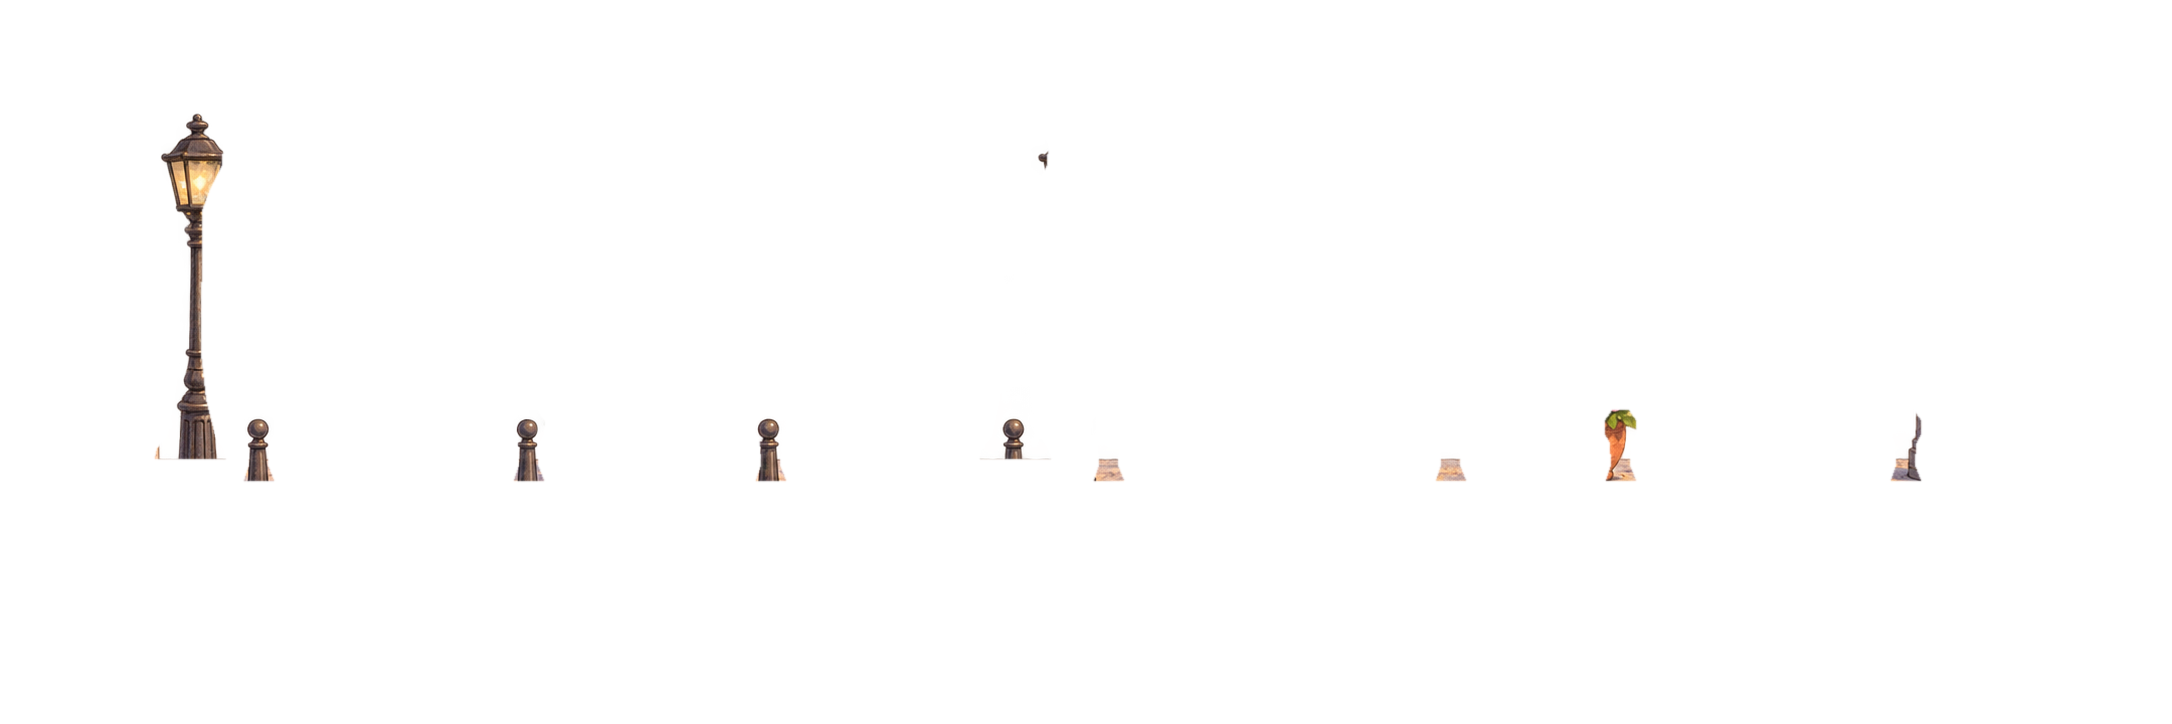
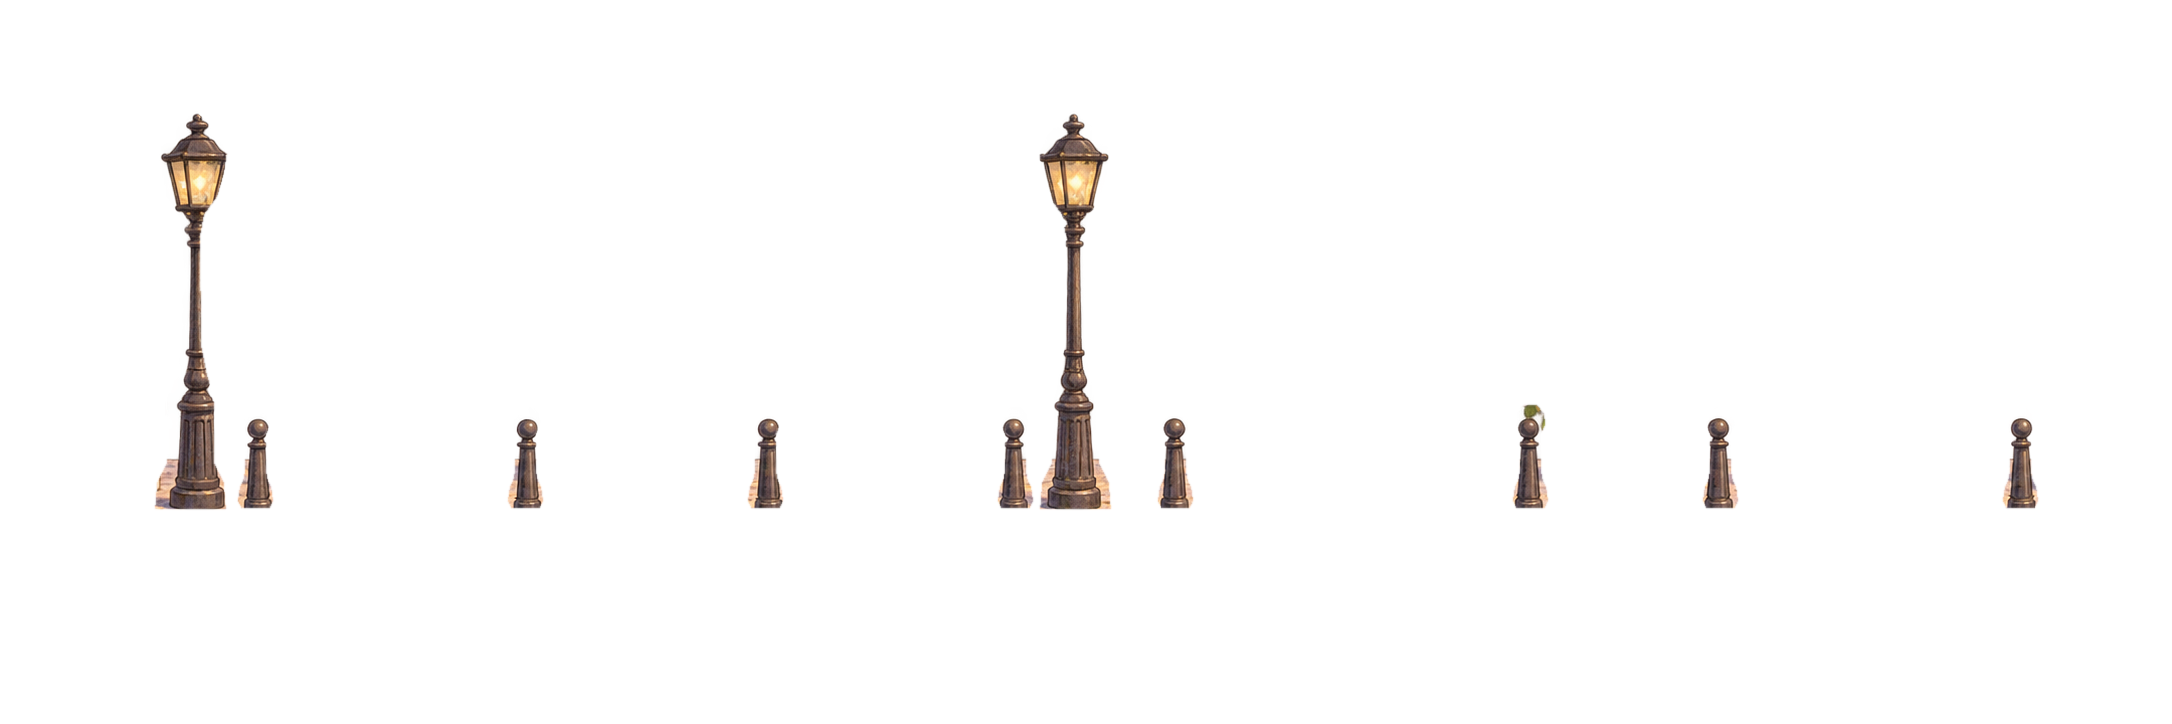
new one

diff --git a/index.html b/index.html
@@ -21,7 +21,7 @@ function resize(){W=innerWidth;H=innerHeight;D=Math.min(devicePixelRatio||1,2);c
 function setup(){resize();people=[];cars=[];for(let i=0;i<Math.max(7,W/170);i++)addPerson(random(0,W+100));for(let i=0;i<Math.max(3,W/360);i++)addCar(random(0,W+240));}
 addEventListener('resize',()=>resize());
 function streetMetrics(){const fullH=H*.51, y=H*.49; return {y,h:fullH};}
-function sidewalkY(){const s=streetMetrics(); return s.y + s.h*0.69;}
+function sidewalkY(){const s=streetMetrics(); return s.y + s.h*0.685;}
 function roadY(){const s=streetMetrics(); return s.y + s.h*0.94;}
 // Two deliberate flight lanes. Every 7.5 seconds the gull crosses to the other
 // lane using a smooth 1.65-second transition. This position is the visual depth cue.
@@ -98,7 +98,7 @@ function drawPedestrians(){
  let baseline=sidewalkY();
  for(let p of people){
    let h=clamp(H*.108,52,89), frame=Math.floor((time*7.2+p.phase)%4), im=imgs['walk_'+p.type+'_'+frame]||imgs['person_'+p.type], w=im?h*(im.width/im.height):h*.55;
-   let step=Math.sin(time*7.2+p.phase), bob=Math.abs(step)*.8, sway=step*.75, rot=step*.012;
+   let step=Math.sin(time*7.2+p.phase), bob=Math.abs(step)*.45, sway=step*.65, rot=step*.008;
    ctx.save(); ctx.translate(p.x+sway, baseline-bob); ctx.rotate(rot); ctx.scale(-1,1); drawImage(im,-w*.5,-h,w,h); ctx.restore();
    p._box={left:p.x-w*.33,right:p.x+w*.33,top:baseline-h+6,bottom:baseline-2};
    p._headBox={left:p.x-w*.22,right:p.x+w*.22,top:baseline-h+4,bottom:baseline-h*.52};

diff --git a/README.md b/README.md
@@ -110,3 +110,9 @@ No license has been selected yet. All rights reserved until the owner chooses on
 - Bald pedestrian spawn chance increased to 31%.
 - Car-lane streams hit the top of cars, stop on impact, and splash on the roof.
 - Missed car-lane drops end with a splash on the road.
+
+## v0.9 — Precise foreground occlusion masks
+- Rebuilt foreground mask in original street-image coordinates.
+- Each of eight bollards and both streetlamps has its own tightly fitted silhouette.
+- Front layer and base street share exact scroll, flip and size parameters.
+- Reduced pedestrian vertical bob so feet stay grounded.
